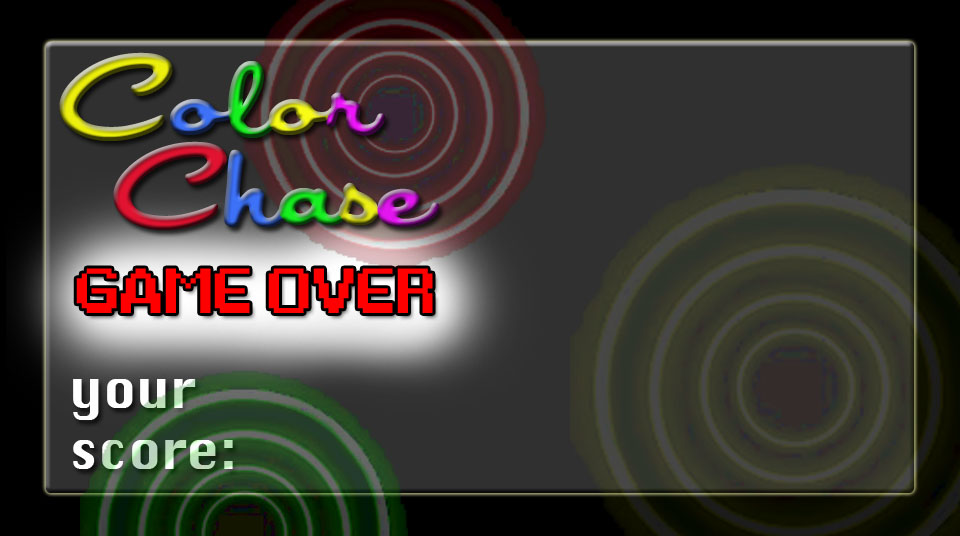
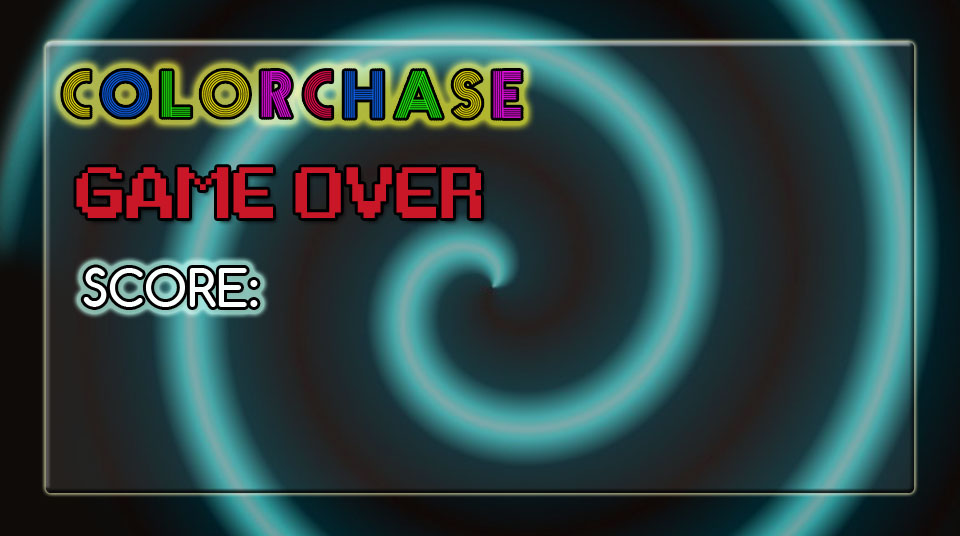
replaced pacman

diff --git a/js/game/ObjectClasses/Player.js b/js/game/ObjectClasses/Player.js
@@ -2,7 +2,7 @@ Player = function() {
 	Player.superclass.constructor.call(this);
 	
 	// Player settings
-	this.mGroundHeight = 55;
+	this.mGroundHeight = 60;
 	this.mHorizontalSpeed = 0;
 	this.mVerticalSpeed = 0;
 	this.mFallSpeed = 0;
@@ -37,8 +37,8 @@ Player.prototype = {
 		this.animArray["run"] = this.addChild(new TGE.SpriteSheetAnimation().setup({
 			image : "player_running",
 			rows : 1,
-			columns : 4,
-			totalFrames : 4,
+			columns : 6,
+			totalFrames : 6,
 			fps : 8,
 			looping : true,
 			visible : false,
@@ -70,7 +70,7 @@ Player.prototype = {
 	    // Add boost
 	    if (this.mGame.mousedown) {
 	        this.mVerticalSpeed = this.mBoostSpeed;
-	        this.PlayAnimation("fly");
+	        this.PlayAnimation("run");
 	    } 
 	    
 	    // Add gravity   
@@ -100,7 +100,7 @@ Player.prototype = {
 			this.PlayAnimation("run");
 	    } 
 	    
-	    // Cieling
+	    // Ceiling
 	    else if (newY > this.mGame.height - halfPlayerHeight) 
 	    {
 	        newY = this.mGame.height - halfPlayerHeight;

diff --git a/js/game/Screens/EndScreen.js b/js/game/Screens/EndScreen.js
@@ -24,8 +24,8 @@ EndScreen = function() {
 
     // Display final score
     this.addChild(this.coinDisplay = new TGE.Text().setup({
-        x : this.percentageOfWidth(0.28),
-        y : this.percentageOfHeight(0.80),
+        x : this.percentageOfWidth(0.33),
+        y : this.percentageOfHeight(0.54),
         font : "60px Tahoma",
         color: "white"
     }));
